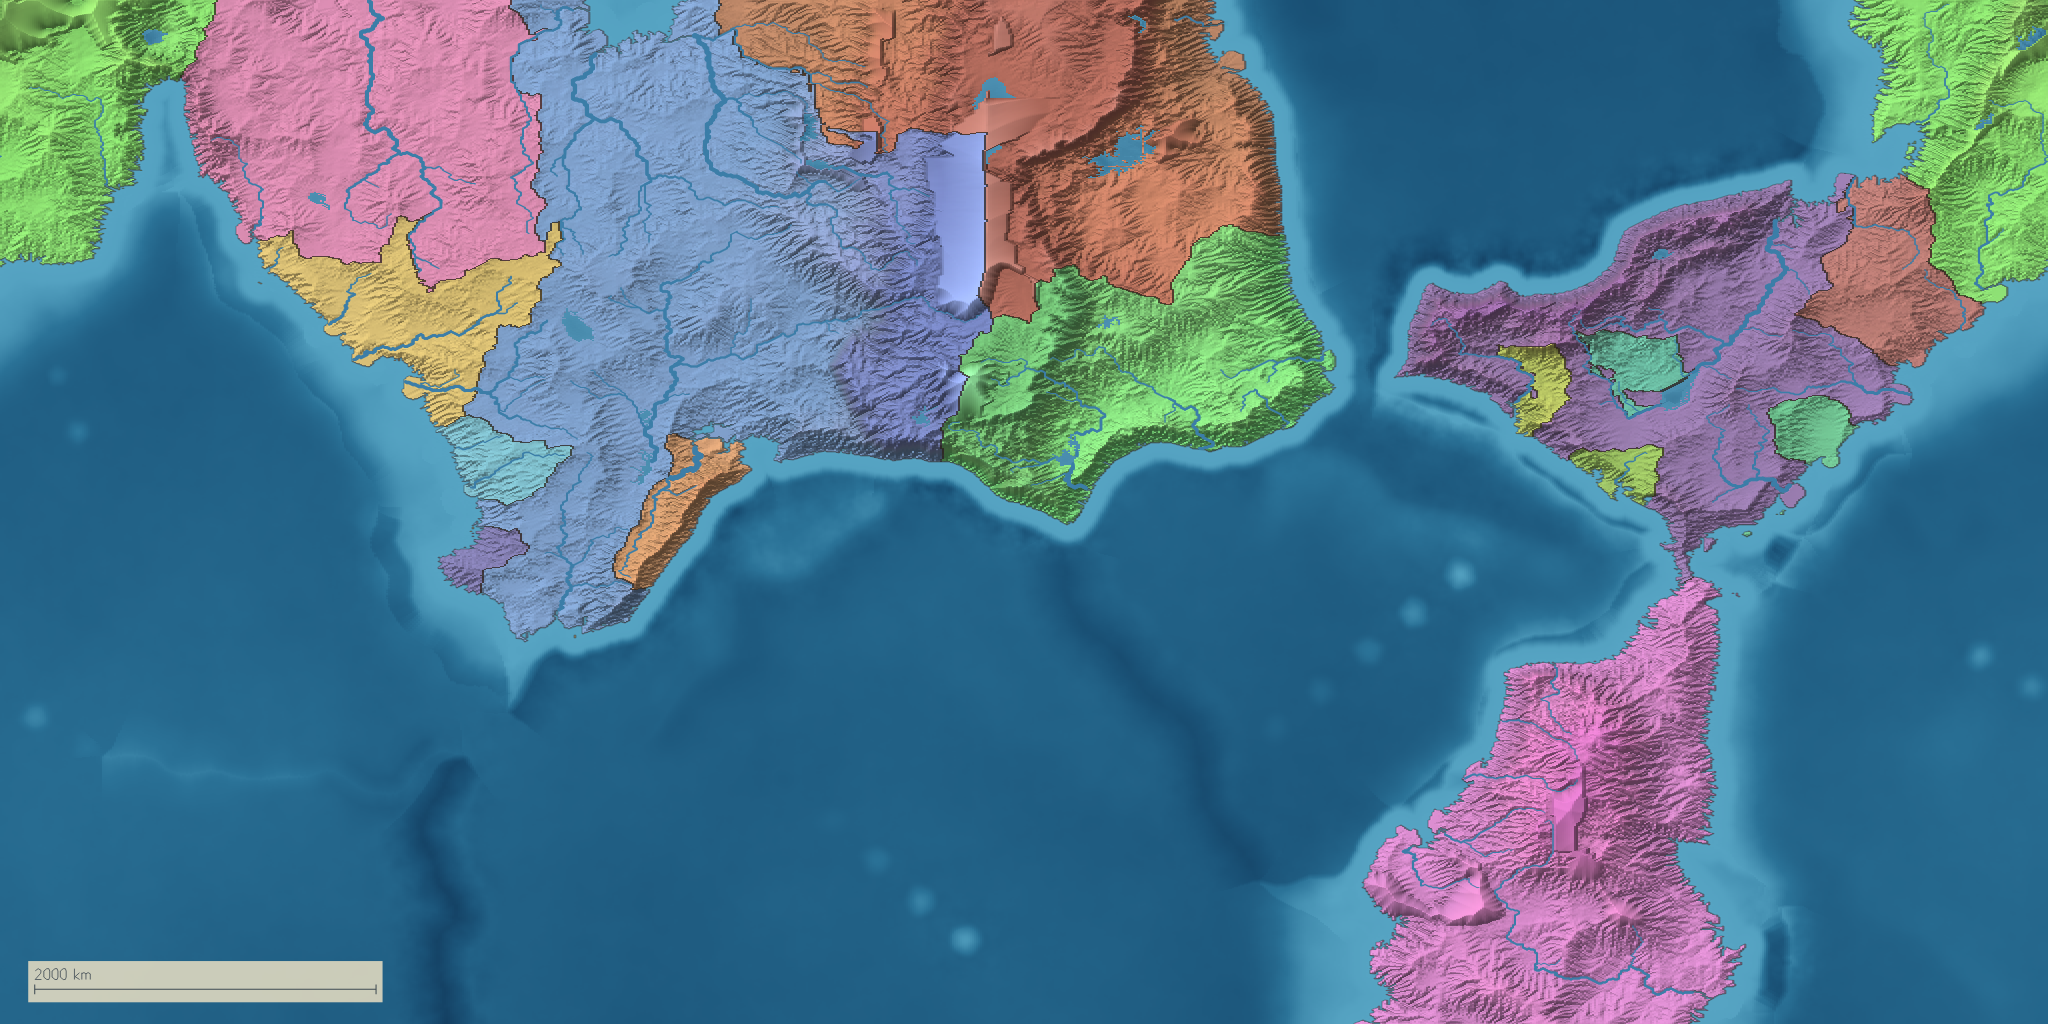
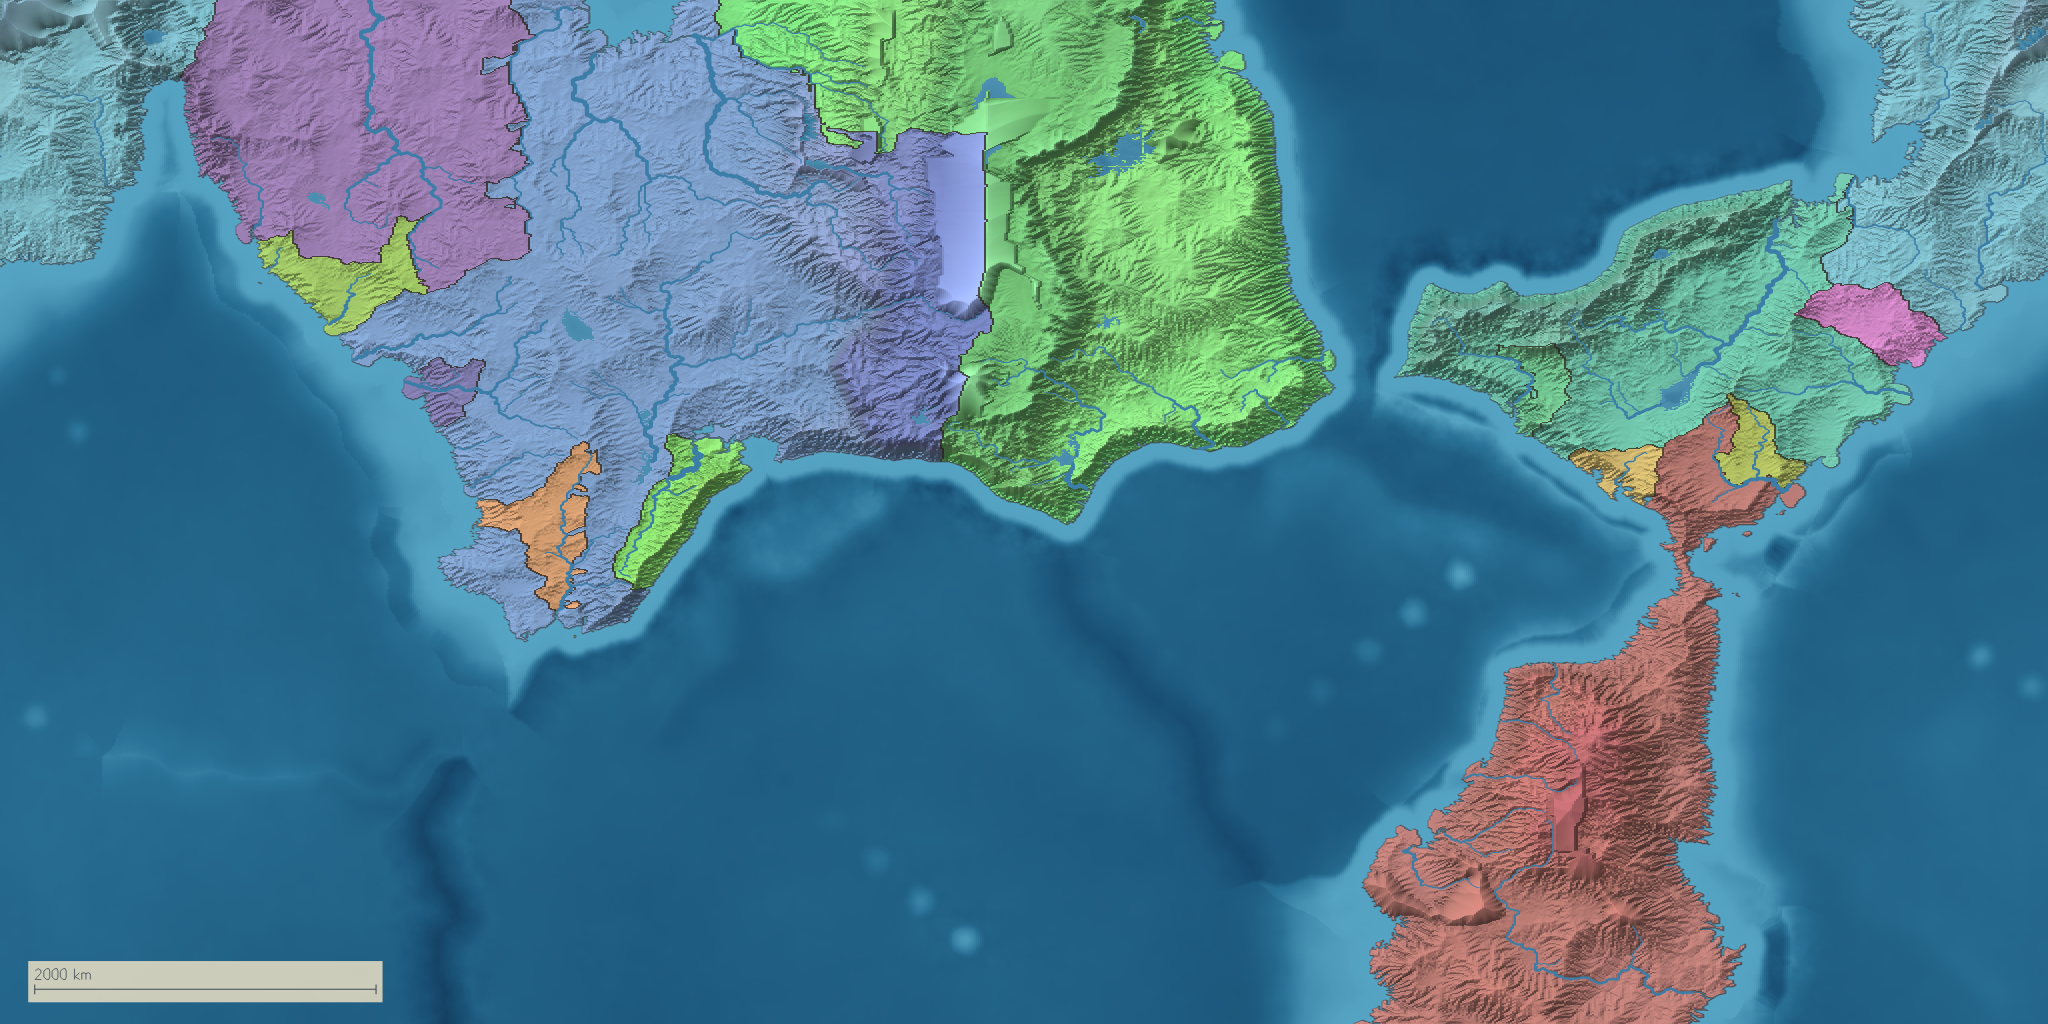
The third round in the report as it finished: a strict cap, basins feeding each other solved together, lakes whole in the partition, the 2048 audit, and the Political renders re-taken

Changed region(s): [[0.6562, 0.0, 1.0, 1.0], [0.0, 0.0, 0.375, 0.5938], [0.3438, 0.0, 0.625, 0.3125]]

diff --git a/review/report.md b/review/report.md
@@ -4,7 +4,7 @@
 
 - **Branch:** `chunk/6-water-realms`, created from origin/main at `fb22d30`. It is not merged and no
   pull request is open.
-- **Head:** `7fe2cf5`, after the review round and the third round (both at the end). The first
+- **Head:** `7513ad0`, after the review round and the third round (both at the end). The first
   build, which the sections below describe, was `acb9df9`.
 - **Review branch:** `review/6-water-realms` is the head with `review/` on top: this report and the
   renders.
@@ -491,87 +491,182 @@ for the third round's builds. It was run on the third round's head instead; see 
 ## Third round
 
 A reading of `66d745d` confirmed points 2 and 4 of the review round fixed and the stranded-piece
-fallback working, and found two gaps. Each was verified on the code, then fixed and guarded by a
-test shown failing with the fix switched off.
+fallback working, and found two gaps. The 2048 audit then turned up a third problem, which this
+round also fixed. Each was verified on the code, then fixed and guarded by a test shown failing
+with the fix switched off.
 
-Commits:
+**Head:** `7513ad0`. The code as tested is `9e434bf`; the two commits after it change only docs.
 
-- `194c4f9`: point 1
-- `4fa940e`: point 2
-- `7fe2cf5`: ledger and `GEOGRAPHY.md`
-
-**Head:** `7fe2cf5`.
-
-### 1. Small pieces added up past the cap
+### 1. Small pieces past the cap
 
 **Verified.** A piece under the smallest realm went to the neighbour holding most of its edge
-whatever that neighbour already held over the cap, so the stated bound held piece by piece and not
-in total.
+whatever that neighbour already held over the cap.
 
-**Change.** A small piece goes to that neighbour only while the neighbour's *whole* excess over the
-cap stays under the smallest realm. A piece no neighbour can take within that allowance becomes a
-realm of its own, with its capital on its best ground. The bound the code now keeps:
+**Change, in two steps.**
 
-- no stranded piece is left;
-- no realm ends the pass a smallest realm or more over the cap;
-- a realm under the smallest size is made only where a small piece has nowhere else to go.
+1. **An allowance, as suggested (`194c4f9`).** A small piece could take its neighbour past the cap
+   by less than one smallest realm, counted over that neighbour's whole excess.
+   - The two-piece case then ended 12 cells over.
+   - On the standard worlds, once the lake change below had re-laid the realms, it took seed 7's
+     largest realm to **30.1%**, past the 30% cap. The armed E-T10 clause asserts that cap and
+     the README states it. I did not loosen the clause to the allowance.
+2. **A strict cap (`04cbee7`).** A piece that no neighbour can take within the cap becomes a realm
+   of its own, whatever its size.
 
-**Guard.** `RealmSpreadTest`, "small pieces cannot add up past the cap's allowance": two 20-cell
-pieces inside a realm of 760 cells, against a cap of 768 and a smallest realm of 24.
+**The bound the code now keeps:**
 
-- **Fix off** (`NationStage` as of `66d745d`): the host took both pieces and ended **32 over**.
-- **Now:** the host takes one and ends 12 over; the other piece is a realm of its own, and no piece
-  is stranded.
+- no piece is stranded;
+- no realm is over the cap;
+- a realm under the smallest size exists only where a small piece has nowhere else to go. On seed
+  7 that is realm 19, at 293 cells, the piece that had tipped the cap.
+
+**Guard.** `RealmSpreadTest`, "small pieces never take a realm past the cap": two 20-cell pieces
+inside a realm of 760 cells against a cap of 768.
+
+| Version | Host ends at |
+|---|---|
+| `66d745d` | 800 cells, 32 over |
+| The allowance | 780 cells, 12 over |
+| Now | 760 cells; both pieces are realms of their own, and none is stranded |
 
 ### 2. The basin graph could hold a cycle
 
 **Verified.** The graph's leftovers were appended in index order, so of two basins feeding each
 other, the first was solved on rain the other keeps.
 
-**Change.** `RiverStage.basinGroupsUpstreamFirst` finds strongly connected groups of basins (Tarjan,
-with an explicit stack) and walks them upstream first. A single basin is solved as before. A group
-of more than one is iterated to a fixed point:
+**Change (`4fa940e`).** `RiverStage.basinGroupsUpstreamFirst` finds strongly connected groups
+(Tarjan, with an explicit stack) and walks them upstream first. A group of more than one basin is
+iterated to a fixed point:
 
 1. Measure each member's inflow on the routing the fill left, with every closed basin keeping its
-   water: those above the group, and the members closed so far other than itself.
+   water.
 2. The members the balance closes become the next closed set.
 3. Repeat until the closed set stops changing.
 
-**Why it converges.** A closure only takes water away, so every member's inflow can only fall as
-the closed set grows. The balance closes a basin at any inflow below the one at which it closes it,
-so the closed set only grows, and it settles within as many passes as the group has members. After
-a group, the rain field is re-accumulated with every closed basin as a sink: that is the field the
-single closures' subtractions reach one at a time.
+**Why it converges.** A closure only takes water away, so each inflow can only fall as the closed
+set grows, and the balance closes a basin at any lower inflow. So the closed set only grows, and it
+settles within as many passes as the group has members. After a group the rain field is
+re-accumulated with every closed basin as a sink.
 
-**Guard.** `WaterReceivedTest`, "two basins that feed each other are solved together". This is the
-four-exit case: A feeds B by its west exit, B feeds A by its east exit, and each has a second exit
-off the world.
+**Guard.** `WaterReceivedTest`, "two basins that feed each other are solved together", the
+four-exit case.
 
-- **Fix off** (each group split into single basins in index order, which is what the old walk
-  did): A was given **550 mm-cells against 450 reaching it**.
-- **Now:** 450 against 450 for each, and one group solved together.
+- **Fix off** (groups split into single basins in index order): A was given **550 mm-cells
+  against 450 reaching it**.
+- **Now:** 450 against 450 for each.
 
-**How many such groups the standard worlds contain: none.** On seeds 7/42/1234/99 at 512 and on
-718106 and 969495 at 2048:
+**How many such groups the standard worlds contain: none.**
 
-| | Seed 7 | 42 | 1234 | 99 | 718106 | 969495 |
+| | Seed 7 | 42 | 1234 | 99 | 718106 at 2048 | 969495 at 2048 |
 |---|---|---|---|---|---|---|
 | Closed basins | 21 | 27 | 6 | 19 | 30 | 41 |
 | … with more than one exit | 15 | 13 | 6 | 14 | 27 | 35 |
 | Groups feeding each other | 0 | 0 | 0 | 0 | 0 | 0 |
 
-No world moved on this account, and the case is still handled.
+### 3. A realm border across a lake, found by the audit
 
-### Test counts on `7fe2cf5`
+On seed 42 at 2048 a realm border ran due south for **65 steps** at cell (290,656), over the
+guard's bar of 63.9. Every cell on both sides was lake. The partition had cut an overflowing lake
+like land, along the rows that the flat's routing draws across it.
+
+**Changes.**
+
+- **`e296eab`:** when a catchment is cut along its trunk, a lake the trunk crosses goes whole to
+  one bank. This alone did not remove the border.
+- **`f86f848`:** an overflowing lake is one node of the partition, as closed lakes already were.
+  - Its sink is the exit that carries the most water and never comes back into the lake.
+  - Its water is never cut, and land draining into it is cut at the limit.
+  - A lake with no such exit is left cell by cell, so the routing cannot gain a cycle.
+
+**Guards**, in `CatchmentUnitsTest`:
+
+- **A lake on a trunk stays on one bank.** Fix off (`BasinPartition` as of `7fe2cf5`): the lake is
+  cut in two. Now: one bank.
+- **An overflowing lake of 99 cells under a 40-cell limit.** Fix off (`BasinPartition` as of
+  `e296eab`): the lake is cut into **7 units**. Now: one unit, and every unit of land is within
+  the limit.
+- **The audit then lists 42's straight realm borders as fixed.**
+
+### The 2048 audit tier
+
+I ran `:cartography:audit`'s geometry census on origin/main and on this branch.
+
+- **origin/main fails** on four drawn-coast clauses of its own: 7's and 718106's arcs, 59758's
+  isotropy, and 969495's square corner.
+- **This branch fails on those four and nothing else**, on `9e434bf`. The four are the base's and
+  are left as they were.
+
+The census's records were updated for this chunk:
+
+- **Armed** (clauses this chunk fixed):
+  - 42: straight realm borders on three detectors, and its peoples' facet;
+  - 1234: realm square corner;
+  - 99: realm arc;
+  - 59758: straight realm borders on two detectors;
+  - 969495: drawn-river arc and peoples' crease.
+- **Listed as unmeasurable:** realm-border rectangles on 7/1234/718106/59758/969495 at 2048 and on
+  1234 at 512, where no realm is now a ring small enough to measure. Also 59758's peoples'-border
+  isotropy.
+- **Re-recorded:** 59758's peoples' facet, 92.31 where it was 96.21.
+- **One new violation, recorded under its existing finding:** a drawn river's square corner on
+  59758 at (1985,1521). The discharge change re-ranked which rivers are drawn.
+
+The other audit-tier classes, the render dumps, ran on `7fe2cf5`: three passed and one skipped
+itself.
+
+### Where it all ends
+
+**Realms** (seeds 7/42/1234/99 at 512 and 969495 at 2048):
+
+| | Seed 7 | 42 | 1234 | 99 | 969495 |
+|---|---|---|---|---|---|
+| Largest realm (% of land) | 29.9 | 27.9 | 22.6 | 17.8 | 23.2 |
+| Realms | 20 | 13 | 15 | 16 | 14 |
+| Coastal capitals | 13/20 | 2/13 | 8/15 | 8/16 | 3/14 |
+
+Coastal capitals total 34 of 78, against 36 of 77 on origin/main.
+
+**Pieces**, on the four seeds at 512:
+
+- No stranded piece.
+- Realms held inside one land neighbour: 5/2/6/7, of which one is landlocked. origin/main had
+  three landlocked.
+
+**Realm borders on 718106 at 2048** (straight runs along a row or column):
+
+| | origin/main | First build | Review round | Now |
+|---|---|---|---|---|
+| 50 km or longer | 10 | 8 | 12 | **17** |
+| 100 km or longer | 1 | 0 | 0 | **2** |
+| Longest | 123 km | 67 km | 76 km | **123 km** |
+
+The two longest runs, 123 km and 108 km at cells (980,462) and (981,347), lie on the ice sheet's
+own ruled edge. The realms on either side of the ice now differ, where at the first build they did
+not. None of these runs reaches the guard's bar. The ice's edge is a later chunk's; this chunk
+does not make the count better than origin/main's, and I am stating that plainly. The peoples'
+borders did not move.
+
+**Renders.** The `-after` Political files in `review/renders/` are re-taken on `9e434bf`.
+
+- **718106:**
+  - The four small realms inside the eastern island's large realm are gone; one realm holds most
+    of that island.
+  - The ice sheet belongs to the realm west of it, and the green realm's border runs down the ice's
+    straight east edge.
+- **42:**
+  - The middle of the western continent is shared by more, smaller realms.
+  - Two of them meet along a **straight north–south border**, close to where origin/main had one.
+    The 2048 census does not flag it; to the eye it is straight.
+- **Fantasy views:** unchanged to the pixel. Rivers and lakes did not move in this round.
+
+### Test counts on `9e434bf`
 
 | Task | Tests | Failures | Errors | Skipped | Run |
 |---|---|---|---|---|---|
-| `:worldgen:jvmTest` | 269 | 0 | 0 | 0 | alone, 50 min 55 s |
-| `:cartography:jvmTest` | 117 | 0 | 0 | 0 | with ui and desktop, 23 min 17 s |
+| `:worldgen:jvmTest` | 271 | 0 | 0 | 0 | alone |
+| `:cartography:jvmTest` | 117 | 0 | 0 | 0 | with ui and desktop |
 | `:ui:jvmTest` | 129 | 0 | 0 | 0 | with cartography and desktop |
 | `:desktop:test` | 104 | 0 | 0 | 19 | with cartography and ui |
+| `:cartography:audit` (geometry census) | 1 | 1 | 0 | 0 | alone; fails only on origin/main's four coast clauses |
 
-All four ran on `7fe2cf5`. The two new tests account for 269 against the review round's 267.
-
-**The 2048 audit tier** (`:cartography:audit`) is running on `7fe2cf5`. Its result is added here
-when it finishes.
+The four new tests account for 271 against the review round's 267.
